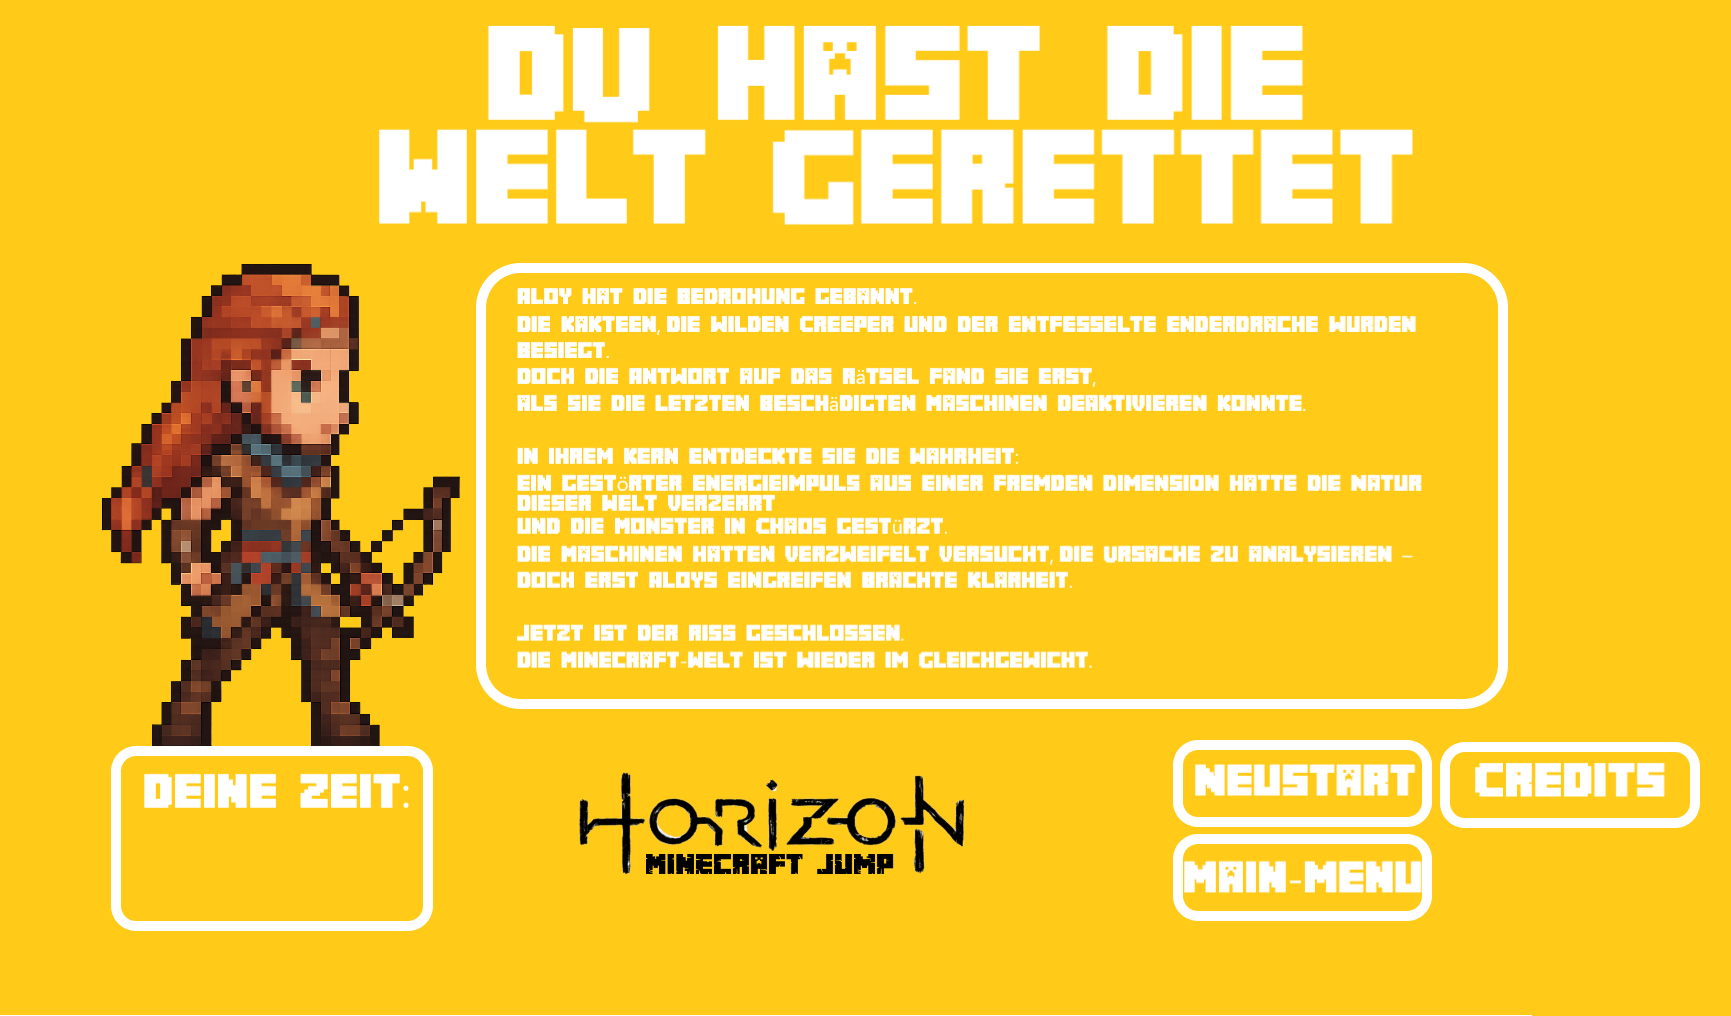
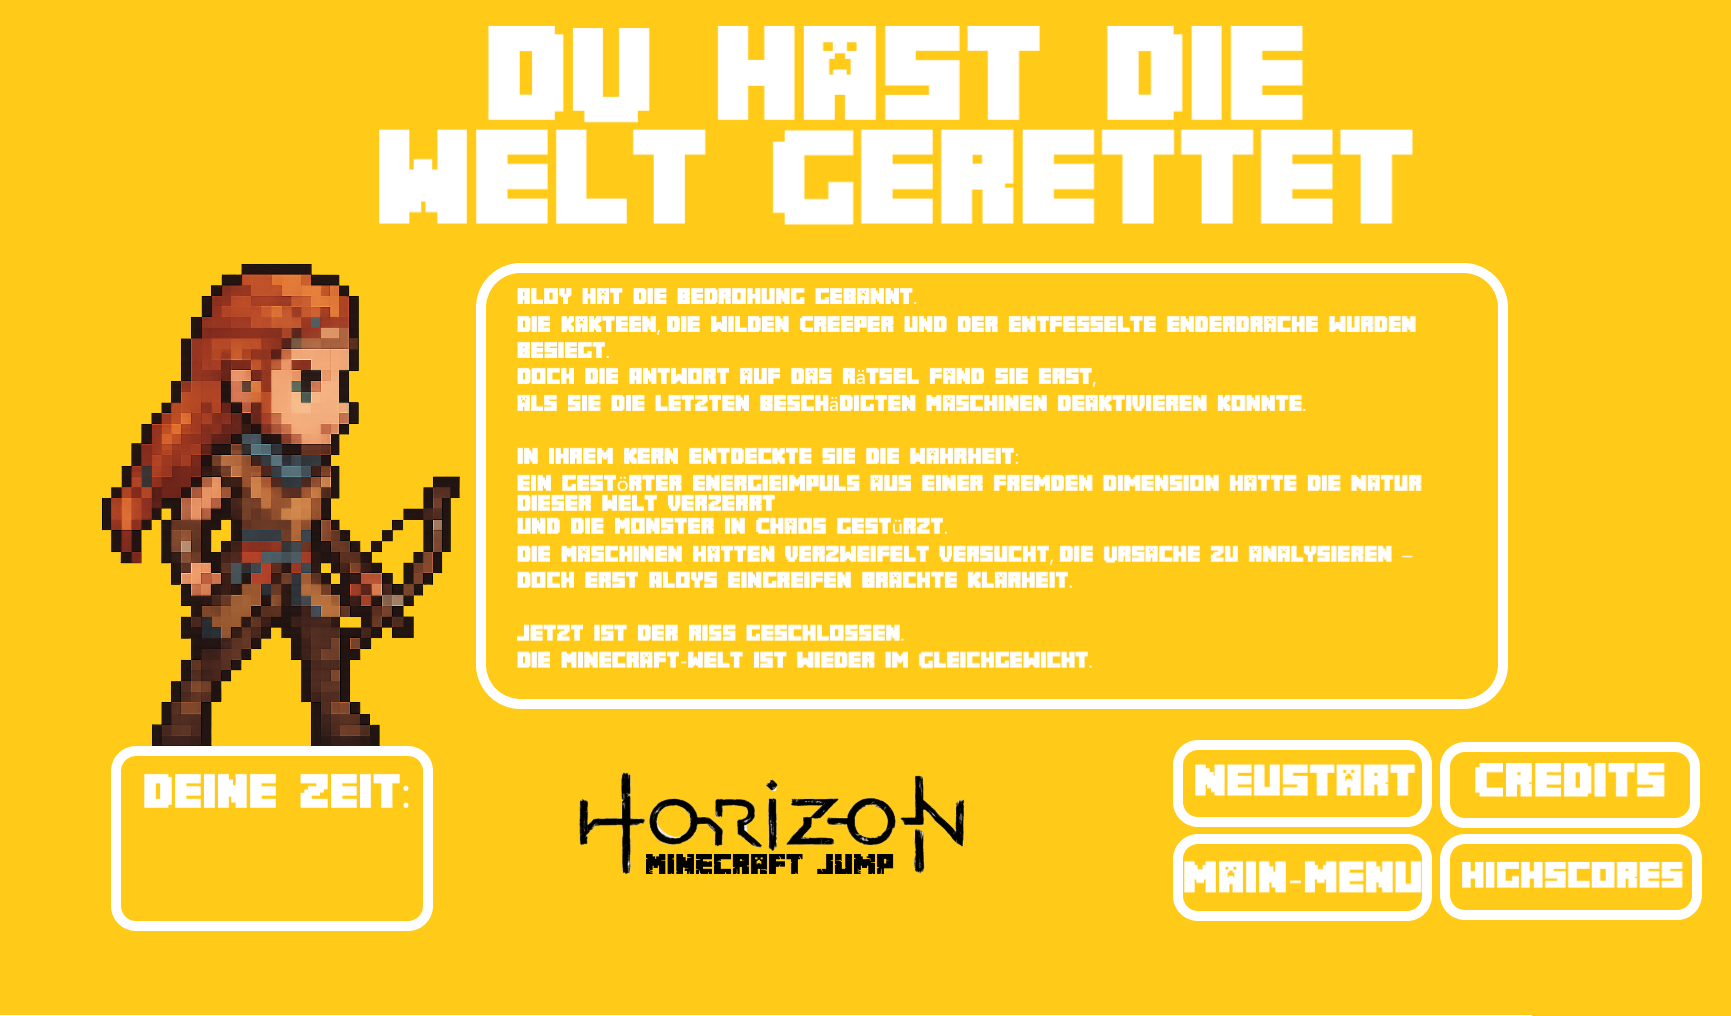
Win screen update new buttons

Changed region(s): [[0.8111, 0.8238, 0.9983, 0.9154]]

diff --git a/src/main/java/Menu.java b/src/main/java/Menu.java
@@ -292,7 +292,8 @@ public class Menu {
         return newScene;
     }
 
-    public static Scene erstelleWinScene(Main classInstance, Function<Void, Void> meunFunction, Function<Void, Void> restartFunction) {
+    public static Scene erstelleWinScene(Main classInstance, Function<Void, Void> meunFunction, Function<Void, Void> restartFunction,
+                                         Function<Void, Void> toHighscoreScene, Function<Void, Void> creditsFunction ) {
         Pane root = new Pane();
         Scene newScene = createSceneBase(classInstance, root, "/screen_win_mc.png");
 
@@ -315,6 +316,24 @@ public class Menu {
         restartBt.setOnAction(event -> {restartFunction.apply(null);});
         restartBt.setOpacity(0);
         root.getChildren().add(restartBt);
+
+        Button highscoreButton = new Button("highscore");
+        highscoreButton.setPrefWidth(180);
+        highscoreButton.setPrefHeight(60);
+        highscoreButton.setLayoutX(1070);
+        highscoreButton.setLayoutY(620);
+        highscoreButton.setOnAction(event -> {toHighscoreScene.apply(null);});
+        highscoreButton.setOpacity(0);
+        root.getChildren().add(highscoreButton);
+
+        Button creditsBt = new Button("Credits");
+        creditsBt.setPrefWidth(180);
+        creditsBt.setPrefHeight(60);
+        creditsBt.setLayoutX(1070);
+        creditsBt.setLayoutY(550);
+        creditsBt.setOnAction(event -> {creditsFunction.apply(null);});
+        creditsBt.setOpacity(0);
+        root.getChildren().add(creditsBt);
 
         Text scoreText = new Text("Highscore");
         scoreText.setFont(minecraftFont);

diff --git a/src/main/java/Main.java b/src/main/java/Main.java
@@ -108,13 +108,27 @@ public class Main extends Application {
                     switchToMainMenu(stage);
                     return e;
                 },
+
                 e -> { // Restart bt
                     _soundPlayer.playSound("click", 1);
 
                     _matchLeben = new MatchLeben(5);
                     goToLevel("o1", stage);
                     return e;
+                },
+                e -> { // Highscore Scene
+                    _soundPlayer.playSound("click", 1);
+
+                    switchToHighscoreMenu(stage);
+                    return e;
+                },
+                e -> { // Credits bt
+                    _soundPlayer.playSound("click", 1);
+
+                    System.out.println("Credits :OOOO");
+                    return e;
                 }
+
         ));
     }
     void switchToFailScreen(Stage stage) {
@@ -182,7 +196,7 @@ public class Main extends Application {
         timer.start();
 
         // DAS HIER ÄNDERN LOL
-        switchToWinScreen(stage);
+        //switchToWinScreen(stage);
         // DAS HIER ÄNDERN LOL
     }
 
